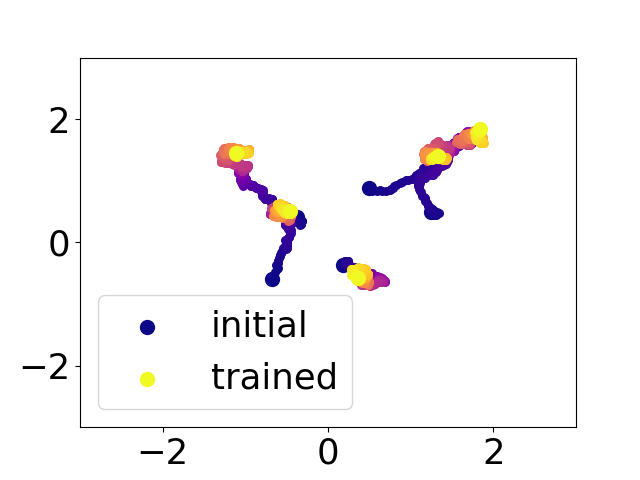
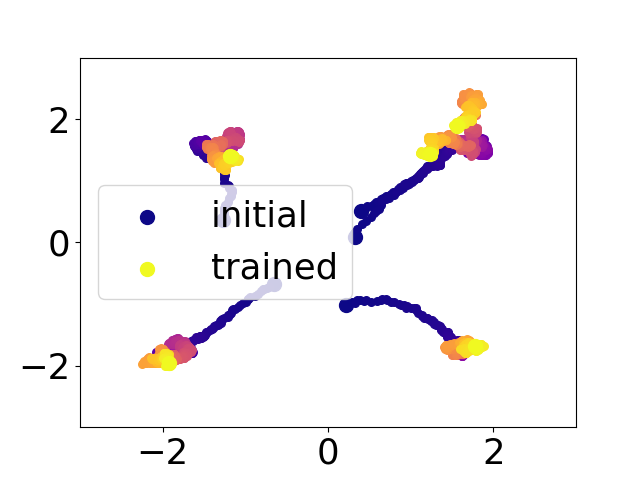
最新コードの反映

Changed region(s): [[0.1562, 0.1875, 0.7812, 0.8125], [0.3125, 0.75, 0.5312, 0.8125], [0.2188, 0.4375, 0.25, 0.4688]]

diff --git a/nn/comparison_parameters.py b/nn/comparison_parameters.py
@@ -48,7 +48,7 @@ num = 5
 # model parameters
 M = 7000
 lr = 1e-2
-T = 5000
+T = 10000
 
 # regularization
 lda1 = 1e-3 # weight decay
